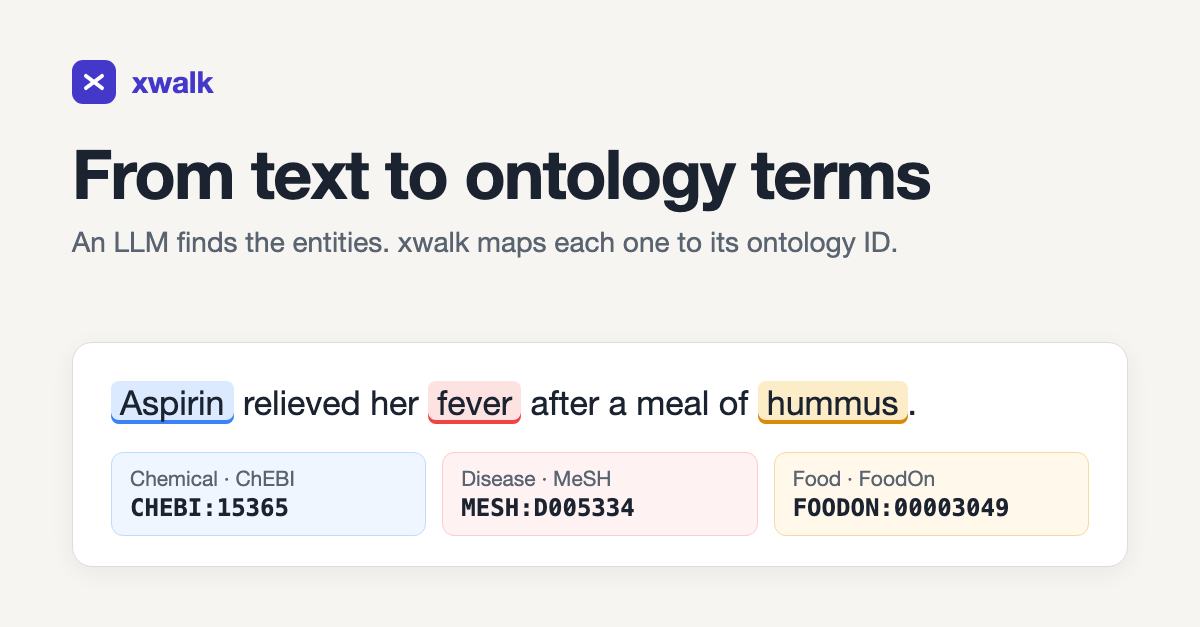
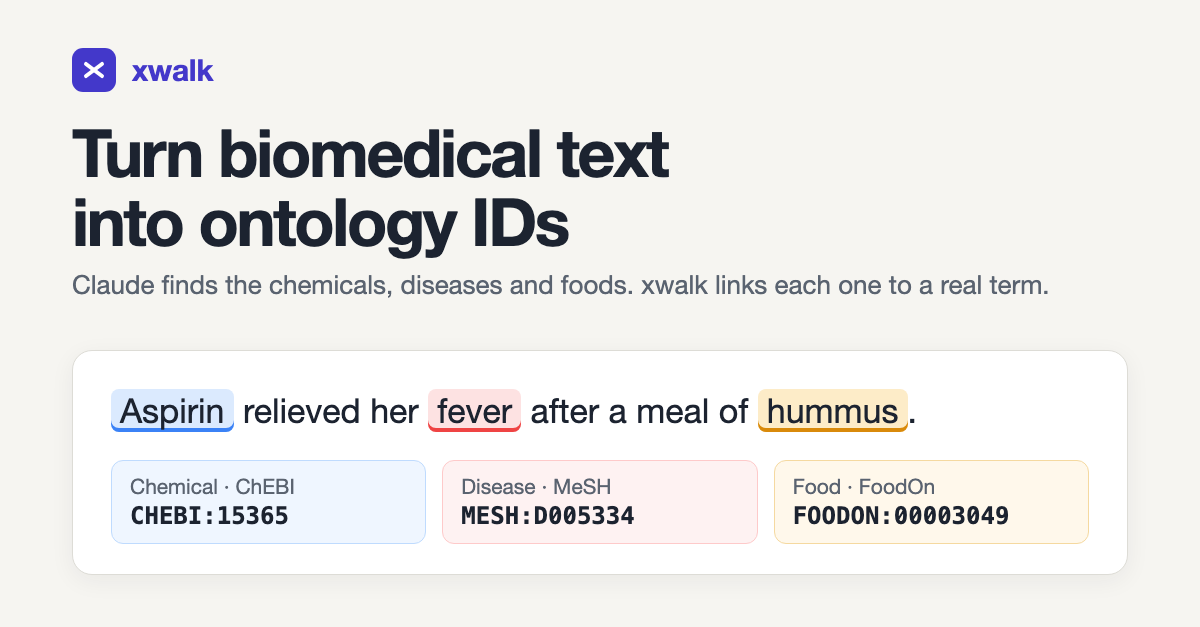
Shorter hint under the button, a five-row text box, and the link preview with the page's headline

diff --git a/ner-site/public/index.html b/ner-site/public/index.html
@@ -6,12 +6,12 @@
   <meta name="color-scheme" content="light dark">
   <meta name="referrer" content="no-referrer">
   <title>xwalk: biomedical text to ontology IDs</title>
-  <meta name="description" content="Paste biomedical text. A language model finds the chemicals, diseases and foods, and xwalk maps each one to its term in ChEBI, MeSH or FoodOn.">
+  <meta name="description" content="Paste biomedical text. Claude finds the chemicals, diseases and foods in it, and xwalk links each one to a real term in ChEBI, MeSH or FoodOn.">
   <meta property="og:type" content="website">
   <meta property="og:site_name" content="xwalk">
   <meta property="og:url" content="https://www.xwalk.si/">
-  <meta property="og:title" content="xwalk: from text to ontology terms">
-  <meta property="og:description" content="Paste biomedical text. A language model finds the chemicals, diseases and foods, and xwalk maps each one to its term in ChEBI, MeSH or FoodOn.">
+  <meta property="og:title" content="xwalk: turn biomedical text into ontology IDs">
+  <meta property="og:description" content="Paste biomedical text. Claude finds the chemicals, diseases and foods in it, and xwalk links each one to a real term in ChEBI, MeSH or FoodOn.">
   <meta property="og:image" content="https://www.xwalk.si/og.png">
   <meta property="og:image:width" content="1200">
   <meta property="og:image:height" content="627">
@@ -49,7 +49,7 @@
     <form id="ner-form" class="composer" novalidate>
       <div class="composer-text">
         <label for="text" class="visually-hidden">Biomedical text</label>
-        <textarea id="text" name="text" rows="7" spellcheck="false" enterkeyhint="enter" autocapitalize="sentences"
+        <textarea id="text" name="text" rows="5" spellcheck="false" enterkeyhint="enter" autocapitalize="sentences"
           aria-describedby="text-help text-counter"
           placeholder="Paste a sentence or a paragraph of biomedical text"></textarea>
         <p id="text-error" class="field-error" role="alert" hidden></p>
@@ -68,7 +68,7 @@
           </button>
           <p class="hint run-hint">
             <span id="run-hint">Free, no sign-up, usually 10 to 30 seconds. Use public or de-identified text: it is sent to the model provider and not saved by this site.</span>
-            <span id="text-help">Up to 5,000 characters and 25 mentions per run.</span>
+            <span id="text-help" class="visually-hidden">Up to 5,000 characters and 25 mentions per run.</span>
           </p>
         </div>
 
